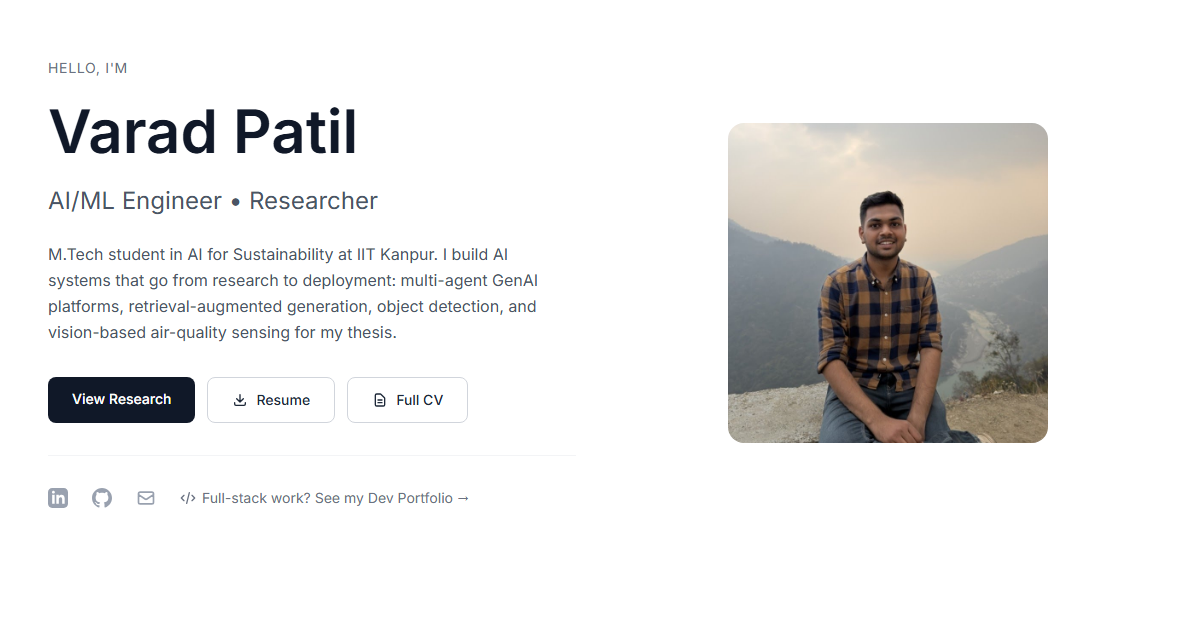
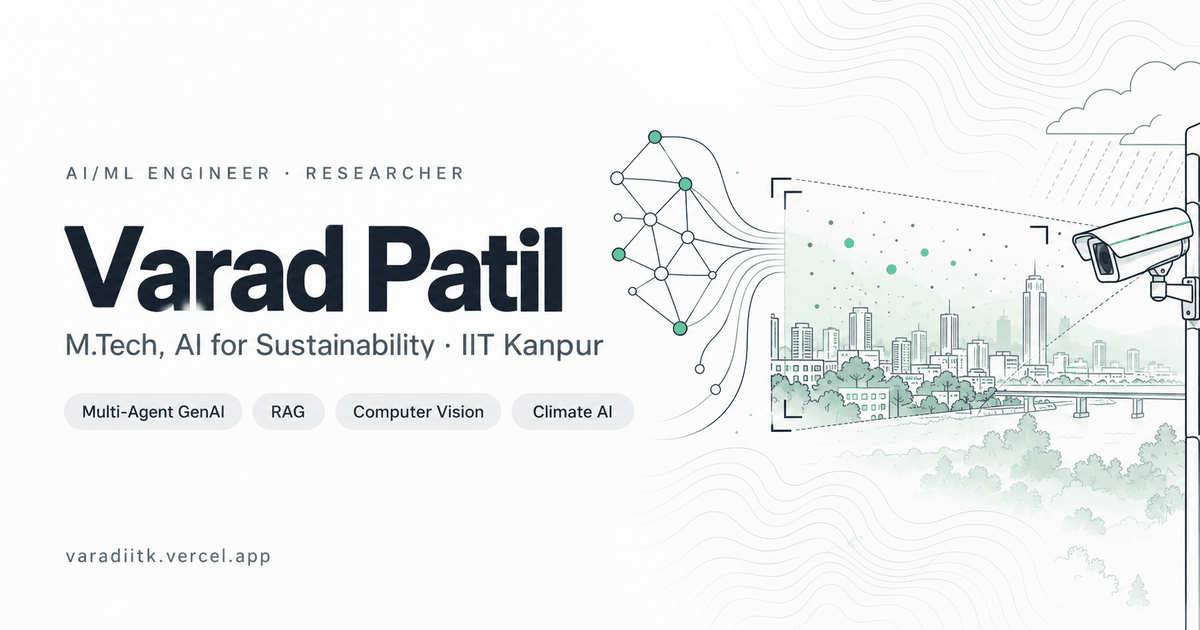
added search console compatibility

diff --git a/index.html b/index.html
@@ -24,6 +24,7 @@
     <meta name="author" content="Varad Patil" />
     <meta name="robots" content="index, follow, max-image-preview:large, max-snippet:-1, max-video-preview:-1" />
     <meta name="googlebot" content="index, follow" />
+    <meta name="google-site-verification" content="J0Rv_P-_bDxw6KEqgJ9Njqj2cH3vrqES_iU94ZLy24s" />
     <link rel="canonical" href="https://varadiitk.vercel.app/" />
 
     <!-- Open Graph -->

diff --git a/TODO.md b/TODO.md
@@ -6,11 +6,12 @@ Sources of truth:
 - `public/VARAD_PATIL_MASTER_RESUME.pdf`: Full CV (all projects)
 - SDE / web portfolio: https://varaddev.vercel.app/
 
-## Still open
+## Launch
 
-- [ ] Optional: replace `public/og-image.png` (currently a 1200×630 screenshot of the hero) with a designed social card
-- [ ] After deploy: submit `sitemap.xml` in Google Search Console, check JSON-LD with the Rich Results Test, run Lighthouse
-- [ ] Commit the work (nothing committed yet)
+- [x] Designed social card: `public/og-image.png` (1200×630, 449 KB; the 1733×907 original is in `../portfolio-private-backup/`)
+- [x] Google Search Console verification meta tag added to `index.html`
+- [x] After deploy: verify in Search Console, submit `sitemap.xml`, check JSON-LD with the Rich Results Test, run Lighthouse, refresh the LinkedIn preview via Post Inspector
+- [x] Commit the work
 
 ## Decisions (resolved 2026-09-30)
 
